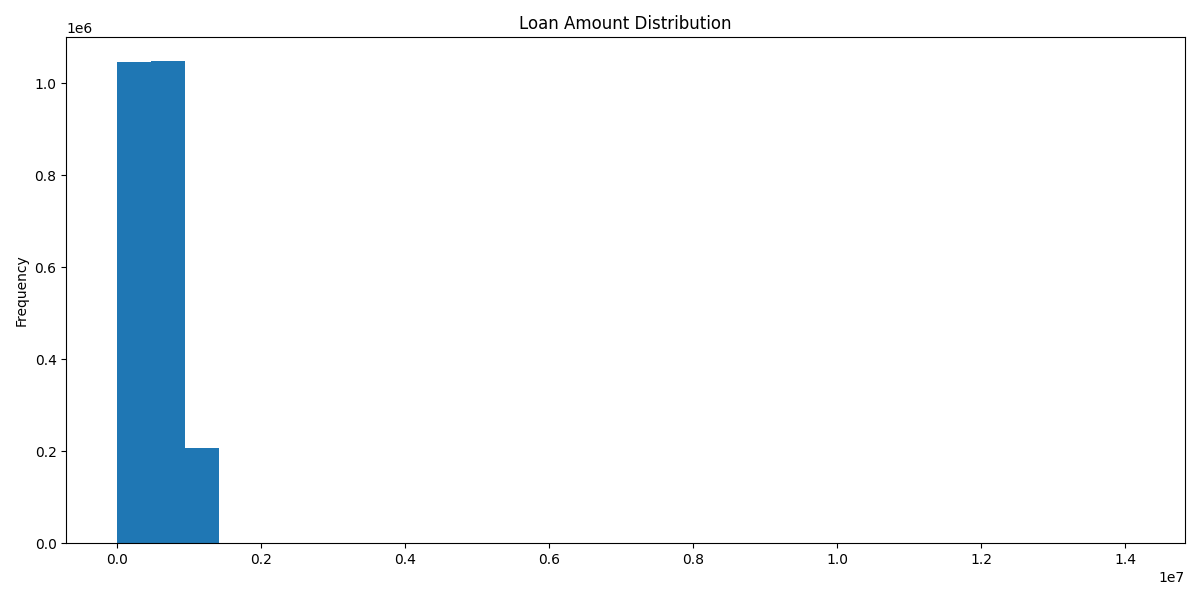
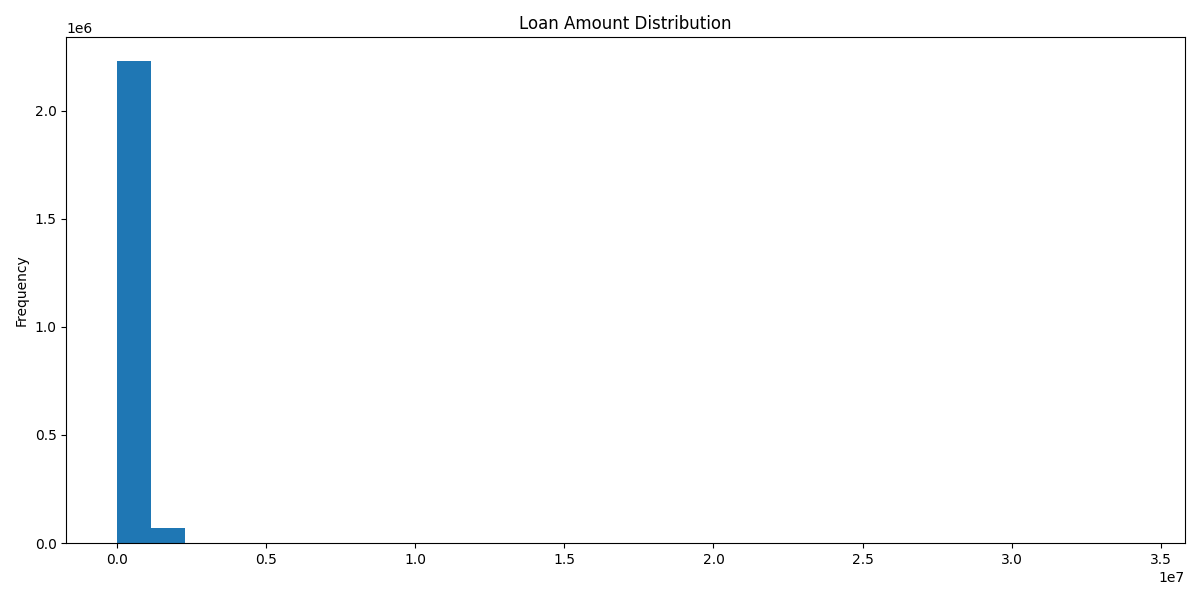
more sample data and charts

diff --git a/generate_fakebank_data.py b/generate_fakebank_data.py
@@ -164,14 +164,14 @@ for as_of_idx, as_of_date in enumerate(DATES):
     for i in range(N_LOANS):
         cust = customers[i % N_CUSTOMERS]
         financials = random_financials() if cust['segment'] != 'Retail' else {}
-        # Balance logic with upward trend and variability
+        # Balance logic with upward trend and increased volatility
         if as_of_idx == 0:
             balance = random.randint(10_000, 1_000_000)
         else:
             prev = loans[-N_LOANS]
             is_material = (i % 100 == 0)
-            # Monthly mean increase of ~0.33% (4% p.a.), std dev 2%
-            change_pct = np.random.normal(loc=0.0033, scale=0.02) if not is_material else np.random.normal(loc=0.0033, scale=0.25)
+            # Monthly mean increase of ~0.33% (4% p.a.), std dev 6% for more volatility
+            change_pct = np.random.normal(loc=0.0033, scale=0.06) if not is_material else np.random.normal(loc=0.0033, scale=0.35)
             balance = max(0, round(prev['loan_amount'] * (1 + change_pct), 2))
         # PD/LGD migration
         if as_of_idx == 0:
@@ -287,20 +287,20 @@ liquidity_positions = []
 for as_of_date in DATES:
     for i in range(N_LIQUIDITY_POSITIONS):
         cust = customers[i % N_CUSTOMERS]
-        # Balance logic
+        # Amount logic
         if as_of_date == DATES[0]:
             amount = random.randint(10_000, 10_000_000)
         else:
             prev = liquidity_positions[-N_LIQUIDITY_POSITIONS]
             change_pct = random.uniform(-0.1, 0.1)
             amount = max(0, round(prev['amount'] * (1 + change_pct), 2))
-        
         liquidity_positions.append({
             'position_id': f'LP{i+1:06d}',
             'as_of_date': as_of_date.strftime('%Y-%m-%d'),
             'customer_id': cust['customer_id'],
             'asset_type': random_choice(ASSET_TYPES),
             'amount': amount,
+            'geography': cust['state'],
             'maturity_date': fake.date_between(start_date=as_of_date, end_date='+5y') if random.random() > 0.3 else None
         })
 liquidity_positions_df = pd.DataFrame(liquidity_positions)
@@ -546,7 +546,7 @@ for folder in [DATA_DIR, 'sample', 'summary']:
             except Exception as e:
                 print(f'Could not remove {f}: {e}')
 
-# Save head(15) of each table to 'sample' folder
+# Save head(15) of each table to 'sample' folder as CSV
 sample_dir = 'sample'
 os.makedirs(sample_dir, exist_ok=True)
 for df, name in [
@@ -555,7 +555,15 @@ for df, name in [
     (applications_df, 'loan_applications'),
     (write_offs_df, 'write_offs'),
     (interactions_df, 'customer_interactions'),
-    (securities_df, 'loan_securities')
+    (securities_df, 'loan_securities'),
+    (liquidity_positions_df, 'liquidity_positions'),
+    (funding_sources_df, 'funding_sources'),
+    (liquidity_metrics_df, 'liquidity_metrics'),
+    (liquidity_events_df, 'liquidity_events'),
+    (market_positions_df, 'market_positions'),
+    (market_risk_metrics_df, 'market_risk_metrics'),
+    (instrument_prices_df, 'instrument_prices'),
+    (market_events_df, 'market_events')
 ]:
     df.head(15).to_csv(os.path.join(sample_dir, f'{name}_sample.csv'), index=False)
 
@@ -660,68 +668,31 @@ def plot_stacked_by_dimension(df, value_col, dimension_col, filename, aggfunc='s
     plt.ylabel(value_col)
     plt.xlabel("as_of_date")
     plt.tight_layout()
-    plt.savefig(os.path.join(summary_dir, filename))
+    plt.savefig(os.path.join(summary_dir, os.path.basename(filename)))
     plt.close()
 
-# Loans: stacked by industry and sales_channel
+# Update all calls to plot_stacked_by_dimension to use only the filename, not a path
 plot_stacked_by_dimension(loans_df, 'loan_amount', 'industry', 'loans_by_industry_stacked.png')
 plot_stacked_by_dimension(loans_df, 'loan_amount', 'sales_channel', 'loans_by_channel_stacked.png')
 plot_stacked_by_dimension(loans_df, 'loan_amount', 'product_type', 'loans_by_product_type_stacked.png')
 plot_stacked_by_dimension(loans_df, 'loan_amount', 'credit_rating', 'loans_by_credit_rating_stacked.png')
 plot_stacked_by_dimension(loans_df, 'loan_amount', 'lgd_rating', 'loans_by_lgd_rating_stacked.png')
-
-# Loan Applications: stacked by product_type and status
 plot_stacked_by_dimension(applications_df, 'amount_requested', 'product_type', 'applications_by_product_type_stacked.png')
 plot_stacked_by_dimension(applications_df, 'amount_requested', 'status', 'applications_by_status_stacked.png')
-
-# Write Offs: stacked by reason
 plot_stacked_by_dimension(write_offs_df, 'amount_written_off', 'reason', 'write_offs_by_reason_stacked.png')
-
-# Customer Interactions: stacked by interaction_type (count)
 if 'as_of_date' in interactions_df.columns:
     interactions_df['as_of_date'] = pd.to_datetime(interactions_df['interaction_date']).dt.strftime('%Y-%m-%d')
 plot_stacked_by_dimension(interactions_df, 'interaction_id', 'interaction_type', 'interactions_by_type_stacked.png', aggfunc='count')
-
-# Loan Securities: stacked by security_type and lien_type
 plot_stacked_by_dimension(securities_df, 'security_value', 'security_type', 'securities_by_type_stacked.png')
 plot_stacked_by_dimension(securities_df, 'security_value', 'lien_type', 'securities_by_lien_type_stacked.png')
-
-# --- Liquidity Risk Charts ---
 if 'liquidity_positions_df' in locals():
-    plot_stacked_by_dimension(
-        liquidity_positions_df,
-        value_col='amount',
-        dimension_col='asset_type',
-        filename=os.path.join(summary_dir, 'liquidity_by_asset_type_stacked.png')
-    )
-    plot_stacked_by_dimension(
-        liquidity_positions_df,
-        value_col='amount',
-        dimension_col='geography',
-        filename=os.path.join(summary_dir, 'liquidity_by_geography_stacked.png')
-    )
+    plot_stacked_by_dimension(liquidity_positions_df, 'amount', 'asset_type', 'liquidity_by_asset_type_stacked.png')
+    plot_stacked_by_dimension(liquidity_positions_df, 'amount', 'geography', 'liquidity_by_geography_stacked.png')
 if 'funding_sources_df' in locals():
-    plot_stacked_by_dimension(
-        funding_sources_df,
-        value_col='amount',
-        dimension_col='source_type',
-        filename=os.path.join(summary_dir, 'funding_by_source_type_stacked.png')
-    )
-
-# --- Market Risk Charts ---
+    plot_stacked_by_dimension(funding_sources_df, 'amount', 'source_type', 'funding_by_source_type_stacked.png')
 if 'market_positions_df' in locals():
-    plot_stacked_by_dimension(
-        market_positions_df,
-        value_col='market_value',
-        dimension_col='instrument',
-        filename=os.path.join(summary_dir, 'market_by_instrument_stacked.png')
-    )
-    plot_stacked_by_dimension(
-        market_positions_df,
-        value_col='market_value',
-        dimension_col='desk',
-        filename=os.path.join(summary_dir, 'market_by_desk_stacked.png')
-    )
+    plot_stacked_by_dimension(market_positions_df, 'market_value', 'instrument', 'market_by_instrument_stacked.png')
+    plot_stacked_by_dimension(market_positions_df, 'market_value', 'desk', 'market_by_desk_stacked.png')
 
 print('Stacked column profiling charts for all tables generated.')
 print('Stacked column profiling charts for liquidity and market risk tables generated.')

diff --git a/README.md b/README.md
@@ -13,15 +13,31 @@ This repository creates a completely synthetic bank for semantic prototyping. It
 - [Sample Write Offs](sample/write_offs_sample.csv)
 - [Sample Customer Interactions](sample/customer_interactions_sample.csv)
 - [Sample Loan Securities](sample/loan_securities_sample.csv)
+- [Sample Liquidity Positions](sample/liquidity_positions_sample.csv)
+- [Sample Funding Sources](sample/funding_sources_sample.csv)
+- [Sample Liquidity Metrics](sample/liquidity_metrics_sample.csv)
+- [Sample Liquidity Events](sample/liquidity_events_sample.csv)
+- [Sample Market Positions](sample/market_positions_sample.csv)
+- [Sample Market Risk Metrics](sample/market_risk_metrics_sample.csv)
+- [Sample Instrument Prices](sample/instrument_prices_sample.csv)
+- [Sample Market Events](sample/market_events_sample.csv)
 
 ## Profiling Charts
 Below are example images from the `summary` folder:
 
+### Credit Risk
 ![Total Loan Amounts by Date](summary/total_loan_amounts_by_date.png)
 ![Stacked Loan Amounts by Industry](summary/loans_by_industry_stacked.png)
 ![Stacked Loan Amounts by Channel](summary/loans_by_channel_stacked.png)
+
+### Liquidity Risk
 ![Liquidity by Asset Type](summary/liquidity_by_asset_type_stacked.png)
+![Liquidity by Geography](summary/liquidity_by_geography_stacked.png)
+![Funding by Source Type](summary/funding_by_source_type_stacked.png)
+
+### Market Risk
 ![Market by Instrument](summary/market_by_instrument_stacked.png)
+![Market by Desk](summary/market_by_desk_stacked.png)
 
 ---
 
